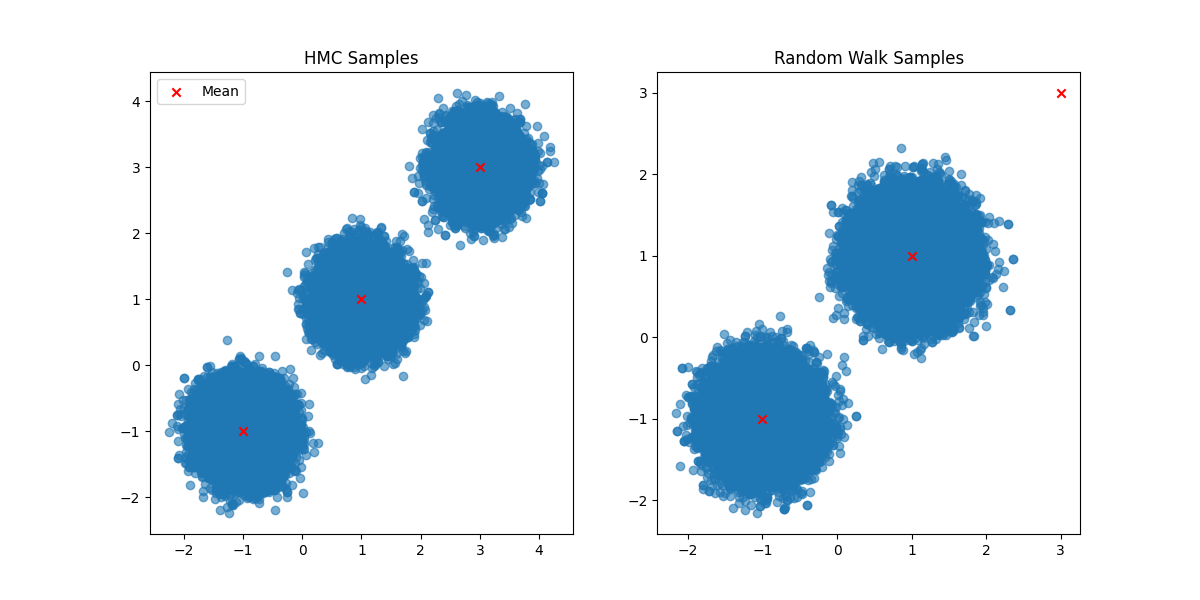
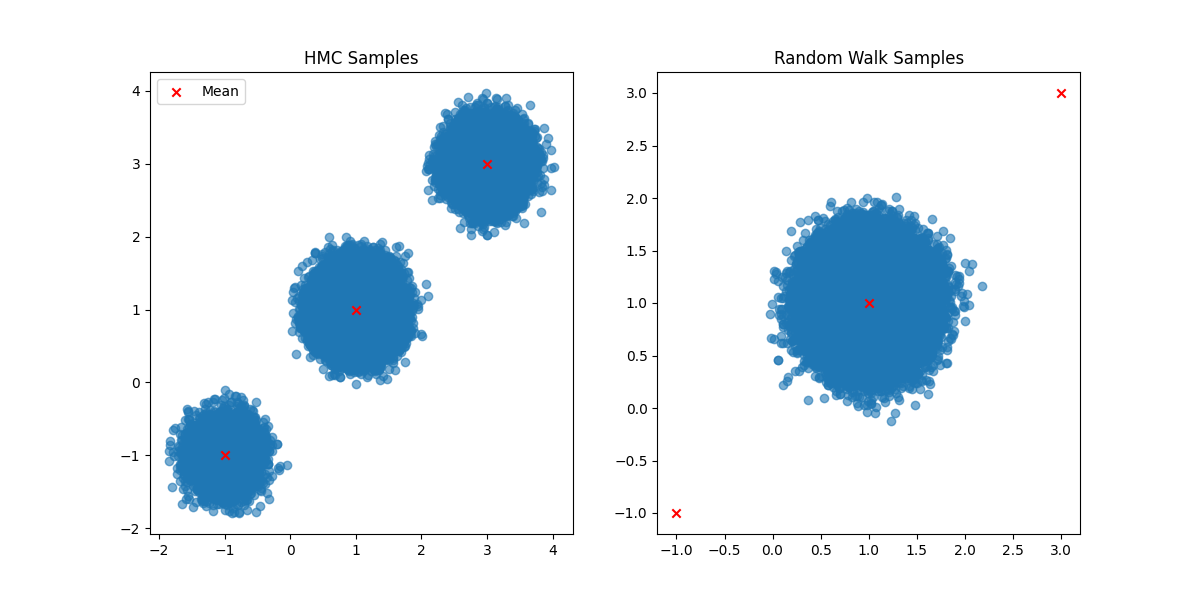
update

diff --git a/jaxhmc/mcmc.py b/jaxhmc/mcmc.py
@@ -41,6 +41,7 @@ def hmc_step(
     precm: jax.Array,
     precm_L: jax.Array,
     steps: int,
+    max_steps: int,
     batch_size: int,
     nesterov_config: NesterovConfig,
     tuning: bool,
@@ -61,6 +62,7 @@ def hmc_step(
         precm,
         pot_grad_vmap,
         steps=steps,
+        max_steps=max_steps,
         step_size=nesterov_state.step_size,
     )
 
@@ -105,6 +107,7 @@ def run_hmc_chain(
     nesterov_config: NesterovConfig,
     nesterov_state: NesterovState,
     steps: int,
+    max_steps: int,
     key: jax.Array,
     length: int,
     tuning: bool,
@@ -117,6 +120,7 @@ def run_hmc_chain(
             precm=config.initial_precm,
             precm_L=precm_L,
             steps=steps,
+            max_steps=max_steps,
             batch_size=initial_position.shape[0],
             nesterov_config=nesterov_config,
             tuning=tuning,
@@ -141,11 +145,14 @@ def hmc(potential: Potential, initial_position: jax.Array, config: HMCConfig):
 
     # First step: Tuning.
     # We put a large limit to the number of steps, and mask indices exceeding the dynamic step size.
+    max_steps = jnp.floor(config.max_path_len / jnp.exp(nesterov_config.log_min_step_size)).astype(jnp.int32)
     steps = jnp.floor(config.max_path_len / config.initial_step_size).astype(jnp.int32)
+
     (q, key, nesterov_state), _ = run_hmc_chain(
         pot_vmap=pot_vmap,
         pot_grad_vmap=pot_grad_vmap,
         steps=steps,
+        max_steps=max_steps,
         initial_position=initial_position,
         key=config.key,
         precm_L=precm_L,
@@ -170,6 +177,7 @@ def hmc(potential: Potential, initial_position: jax.Array, config: HMCConfig):
         pot_grad_vmap=pot_grad_vmap,
         precm_L=precm_L,
         steps=steps,
+        max_steps=steps,
         key=key,
         initial_position=q,
         config=config,

diff --git a/jaxhmc/integrators.py b/jaxhmc/integrators.py
@@ -8,16 +8,28 @@ import jax.numpy as jnp
 
 
 def _step(
-    _,
+    idx: int,
     carry: tuple[jax.Array, jax.Array],
     precm: jax.Array,
     potential_grad: nnx.Module,
     step_size: float,
+    steps: int,
 ):
-    p, q = carry  # (B, d)
-    p = p - 0.5 * step_size * potential_grad(q)  # (B, d)
-    q = q + step_size * jnp.einsum("ij, bi->bj", precm, p)  # (B, d)
-    p = p - 0.5 * step_size * potential_grad(q)  # (B, d)
+    should_update = idx < steps
+
+    def integrate():
+        p, q = carry  # (B, d)
+        p = p - 0.5 * step_size * potential_grad(q)  # (B, d)
+        q = q + step_size * jnp.einsum("ij, bi->bj", precm, p)  # (B, d)
+        p = p - 0.5 * step_size * potential_grad(q)  # (B, d)
+        return p, q
+
+    p, q = jax.lax.cond(
+        should_update,
+        integrate,
+        lambda: carry,
+    )
+
     return p, q
 
 
@@ -28,15 +40,17 @@ def leapfrog(
     potential_grad: nnx.Module,
     step_size: float,
     steps: int,
+    max_steps: int,
 ):
     p, q = jax.lax.fori_loop(
         lower=0,
-        upper=steps,
+        upper=max_steps,
         body_fun=partial(
             _step,
             precm=precm,
             step_size=step_size,
             potential_grad=potential_grad,
+            steps=steps,
         ),
         init_val=(p, q),
     )

diff --git a/examples/gaussian_mixture.py b/examples/gaussian_mixture.py
@@ -5,7 +5,7 @@ import matplotlib.pyplot as plt
 from jaxhmc.mcmc import HMCConfig, RandomWalkConfig, hmc, random_walk
 from jaxhmc.potentials import GaussianMixturePotential
 
-SAMPLES = 200_000
+SAMPLES = 1_000_000
 
 # We first sample a initial position
 key = jax.random.key(42)
@@ -17,7 +17,7 @@ dim = initial_position.shape[1]
 # We the run the HMC
 means = jnp.vstack([jnp.ones(dim) + 2, jnp.ones(dim), jnp.ones(dim) - 2])
 
-potential = GaussianMixturePotential(means=means, sigma=0.3)
+potential = GaussianMixturePotential(means=means, sigma=0.25)
 config = HMCConfig(
     initial_step_size=0.2,
     max_path_len=2,
